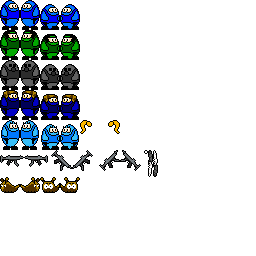
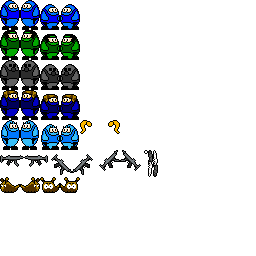
CTs visibly duck when pressing down key

Changed region(s): [[0.1875, 0.5938, 0.375, 0.6875]]

diff --git a/mcdiddy/mod.c b/mcdiddy/mod.c
@@ -248,22 +248,23 @@ void mod_draw(SDL_Surface *screen,int objid,OBJ_t *o) {
       if( pl->goingu==pl->goingd ) gunshift = 0;
       drect = (SDL_Rect){(pl->pos.x-10),(pl->pos.y-15),0,0};
       int z = drect.y + pl->hull[1].y;
+      int duck = pl->goingd>0 ? 40 : 0;
       if( pl->facingr ) {
         if( pl->model==4 ) //girl hair
           SJGL_BlitScaled(textures[TEX_PLAYER], &(SDL_Rect){ 80,120,20,15},
-                                                &(SDL_Rect){drect.x-4,drect.y+pl->gundown/7,0,0}, scale, z);
-        SJGL_BlitScaled(textures[TEX_PLAYER], &(SDL_Rect){ 0, 0+pl->model*30,20,30}, &drect, scale, z);
+                                                &(SDL_Rect){drect.x-4,drect.y+(pl->goingd?4:0)+pl->gundown/7,0,0}, scale, z);
+        SJGL_BlitScaled(textures[TEX_PLAYER], &(SDL_Rect){ 0+duck, 0+pl->model*30,20,30}, &drect, scale, z);
         drect = (SDL_Rect){(pl->pos.x- 5-pl->gunback),(pl->pos.y-10+pl->gundown/5),0,0};
         if( !pl->stabbing ) //gun
-          SJGL_BlitScaled(textures[TEX_PLAYER], &(SDL_Rect){ 0+gunshift,150,24,21}, &drect, scale, z);
+          SJGL_BlitScaled(textures[TEX_PLAYER], &(SDL_Rect){ 0+gunshift,150,24,27}, &drect, scale, z);
       } else {
         if( pl->model==4 ) //girl hair
           SJGL_BlitScaled(textures[TEX_PLAYER], &(SDL_Rect){100,120,20,15},
-                                                &(SDL_Rect){drect.x+4,drect.y+pl->gundown/7,0,0}, scale, z);
-        SJGL_BlitScaled(textures[TEX_PLAYER], &(SDL_Rect){20, 0+pl->model*30,20,30}, &drect, scale, z);
+                                                &(SDL_Rect){drect.x+4,drect.y+(pl->goingd?4:0)+pl->gundown/7,0,0}, scale, z);
+        SJGL_BlitScaled(textures[TEX_PLAYER], &(SDL_Rect){20+duck, 0+pl->model*30,20,30}, &drect, scale, z);
         drect = (SDL_Rect){(pl->pos.x-19+pl->gunback),(pl->pos.y-10+pl->gundown/5),0,0};
         if( !pl->stabbing ) //gun
-          SJGL_BlitScaled(textures[TEX_PLAYER], &(SDL_Rect){24+gunshift,150,24,21}, &drect, scale, z);
+          SJGL_BlitScaled(textures[TEX_PLAYER], &(SDL_Rect){24+gunshift,150,24,27}, &drect, scale, z);
       }
       if( pl->stabbing ) { //up/down stabbing
         drect = (SDL_Rect){pl->pos.x-2,pl->pos.y-(pl->stabbing<0?30:0),0,0};
@@ -563,11 +564,12 @@ void mod_adv(Uint32 objid,Uint32 a,Uint32 b,OBJ_t *oa,OBJ_t *ob) {
         }
         if( newme->goingu ) { // aiming
           bu->vel.y += -8.0f;
-          bu->pos.y +=-10.0f;
+          bu->pos.x += -2.0f;
+          bu->pos.y += -7.0f;
         }
         if( newme->goingd ) {
           bu->vel.y +=  8.0f;
-          bu->pos.y += 12.0f;
+          bu->pos.y += 16.0f;
         }
         bu->model = 1;
         bu->owner = objid;
